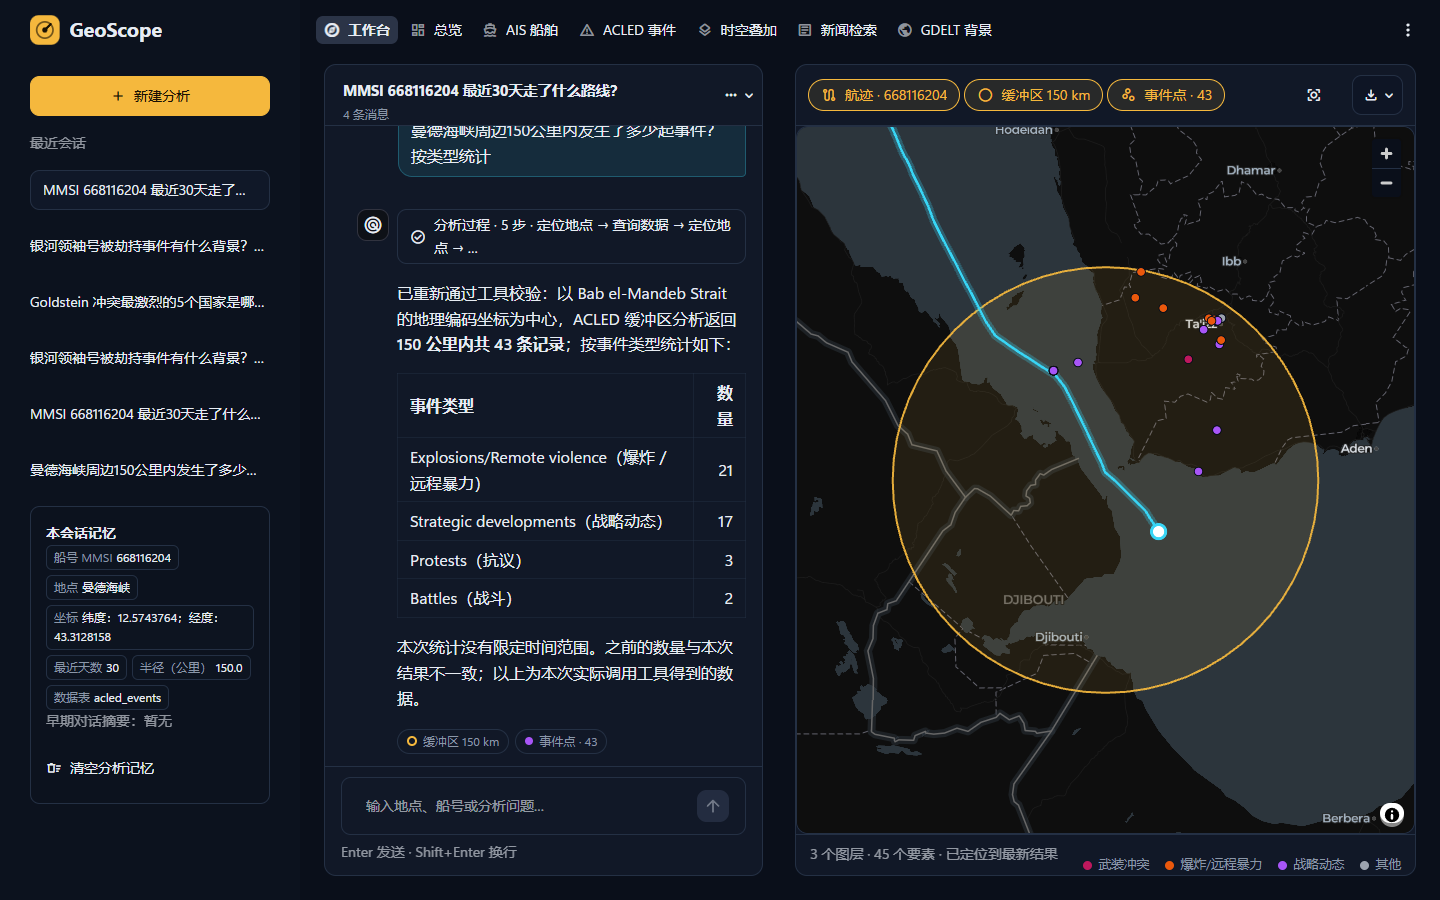
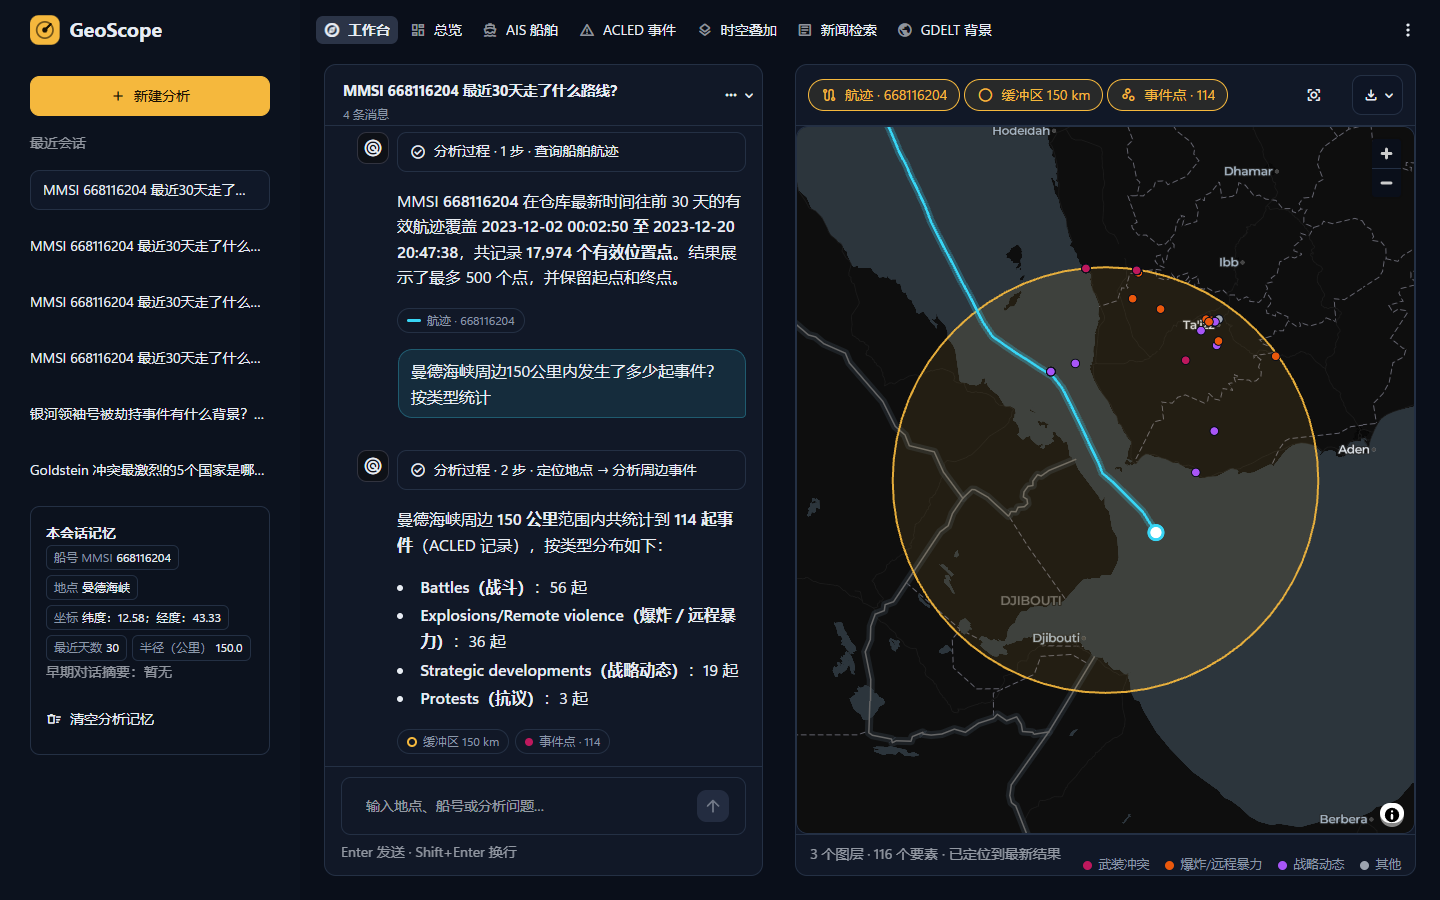
docs: 工作台截图换成真实模型验收的新会话
README 的两张 1440×900 截图（浅色、深色）换成真实模型验收新建的会话：
第一轮问 MMSI 668116204 最近 30 天的航迹，第二轮问"曼德海峡周边 150 公里内发生了多少起事件？
按类型统计"。第二轮回答按类型列出圈内 114 起事件：Battles 56、Explosions/Remote violence 36、
Strategic developments 19、Protests 3，与直查仓库一致。

原截图来自地名解析缺陷修复前的会话："曼德海峡"被在线服务解析到福州，
回答里出现"之前的数量与本次结果不一致"，分析过程有 5 步。

截图在 fix/agent-backend 上运行的应用里拍摄。界面代码与本分支只差属性校验的位置
（该分支把它从 map_view 移回了 agent/），渲染相同；回答内容依赖该分支的后端修复：
"曼德海峡"取内置地名库坐标 12.58/43.33，缓冲区分析直接返回按类型计数。
如果只合并本分支、不合并 fix/agent-backend，同一问题可能走在线地理编码，
得到不同的中心和数量，回答里也未必有按类型统计。

计划里补记这次更换（任务 10），并在任务 9 发现的问题里补上第 3 条：缓冲区分析只返回总数。

diff --git a/docs/superpowers/plans/2026-10-23-frontend-redesign.md b/docs/superpowers/plans/2026-10-23-frontend-redesign.md
@@ -4473,6 +4473,7 @@ git add scripts/capture_screens.py docs/ui-light-1440x900.png docs/ui-dark-1440x
 
 1. **地名坐标记成了候选列表第一条**（`agent/tools.py`、`agent/memory.py`）。`geocode` 在线候选页一次返回多个 `lat=…, lon=…`，记忆提取把第一条当成结论，"曼德海峡"于是记成了福州（26.14, 119.13），后续轮次继续沿用。修复（在 `fix/agent-backend`）：记忆只在**恰好一个**坐标时才采信；`geocode` 改为内置地名优先、在线结果明确标注"候选结果（未核实）"。补 8 条 `tests/test_tools_geocode.py` 与多条记忆回归测试（原提交 `4631c16`，本分支已撤回）。
 2. **旧快照会自我延续**（`agent/memory.py`）。修好提取规则后，已存库的 v1 快照仍被信任，刷新也不会变。修复（在 `fix/agent-backend`）：引入 `_MEMORY_VERSION = 2`，版本不符时丢弃快照、从原始聊天记录整体重建——记忆是可丢弃的派生数据。已用变异测试确认（把门槛放宽回接受 v1，新测试立刻变红）。
+3. **缓冲区分析只返回总数**（`agent/tools.py`）。2026-10-25 的真实模型验收里，"曼德海峡周边150公里内发生了多少起事件？按类型统计"跑了两次：一次模型另调 `query_database` 拿到了分类，另一次没有，只能回答"当前结果没有提供按事件类型的分类统计"。修复（在 `fix/agent-backend`）：`buffer_analysis` 在总数之后附上按类型计数（最多 8 类，其余合并），补 `tests/test_tools_buffer.py`。
 
 **保留未改的一处**：第二轮模型回答里的数字（21 / 17 / 3 / 2，共 43）与它自己可见 SQL 用的中心点（12.6, 43.3，按工具的平面距离公式应为 141 条）不一致。核对数据后确认：43 是用 buffer 工具返回的坐标（12.5743764, 43.3128158）算出来的，回答正文也写明了以该坐标为中心；这是模型的表述习惯，不是工具或记忆的缺陷，因此不改生产代码，只在验收记录里留痕。
 
@@ -4481,6 +4482,7 @@ git add scripts/capture_screens.py docs/ui-light-1440x900.png docs/ui-dark-1440x
 - `scripts/capture_screens.py` 与计划里的代码逐字一致，能生成 7 页 × 浅/深 × 1440×900 / 1366×768 全套截图；
 - 逐张检查：无深底深字、无浅底浅字、无文字溢出；工作台两栏填满视口、对话在面板内滚动；1000px 宽时导航折叠、面板上下排列（`chat_panel` y=64、`map_panel` y=808）；深色下热力图、阶段色、GDELT 发散色清楚；总览饼图使用全局分类色板（蓝 / 橙 / 青），不是 Plotly 默认色；
 - README 换上 `docs/ui-light-1440x900.png` / `docs/ui-dark-1440x900.png`，提交 `31acba7`。
+- 2026-10-25：两张截图换成真实模型验收新会话的画面，第二轮回答按类型列出圈内 114 起事件（Battles 56、Explosions/Remote violence 36、Strategic developments 19、Protests 3）。截图在 `fix/agent-backend` 上运行的应用里拍摄：界面代码与本分支只差属性校验的位置（该分支把它从 `map_view` 移回了 `agent/`），渲染相同；回答内容依赖该分支的后端修复（上面第 1、3 条）。原截图来自地名解析缺陷修复前的会话，回答里有"之前的数量与本次结果不一致"，分析过程 5 步。
 
 **已知的可读性现象（未改设计）**：看板页 14px 的中文 y 轴标题（"文章数""来源""事件数"）旋转 -90° 后，在 1x 截图里会糊成一团。逐字测量显示字符位置正确（每个 19×14、间距 14px = 字号），2x 下清晰，且用与 Plotly/Streamlit 无关的最小 HTML 页也能复现——是 1x 下旋转 CJK 的亚像素光栅化现象，不是布局或某页的缺陷。若要根治，需要改设计（去掉与面板标题重复的 y 轴标题，或把轴标题字号提到 18px），本轮不动。
 
